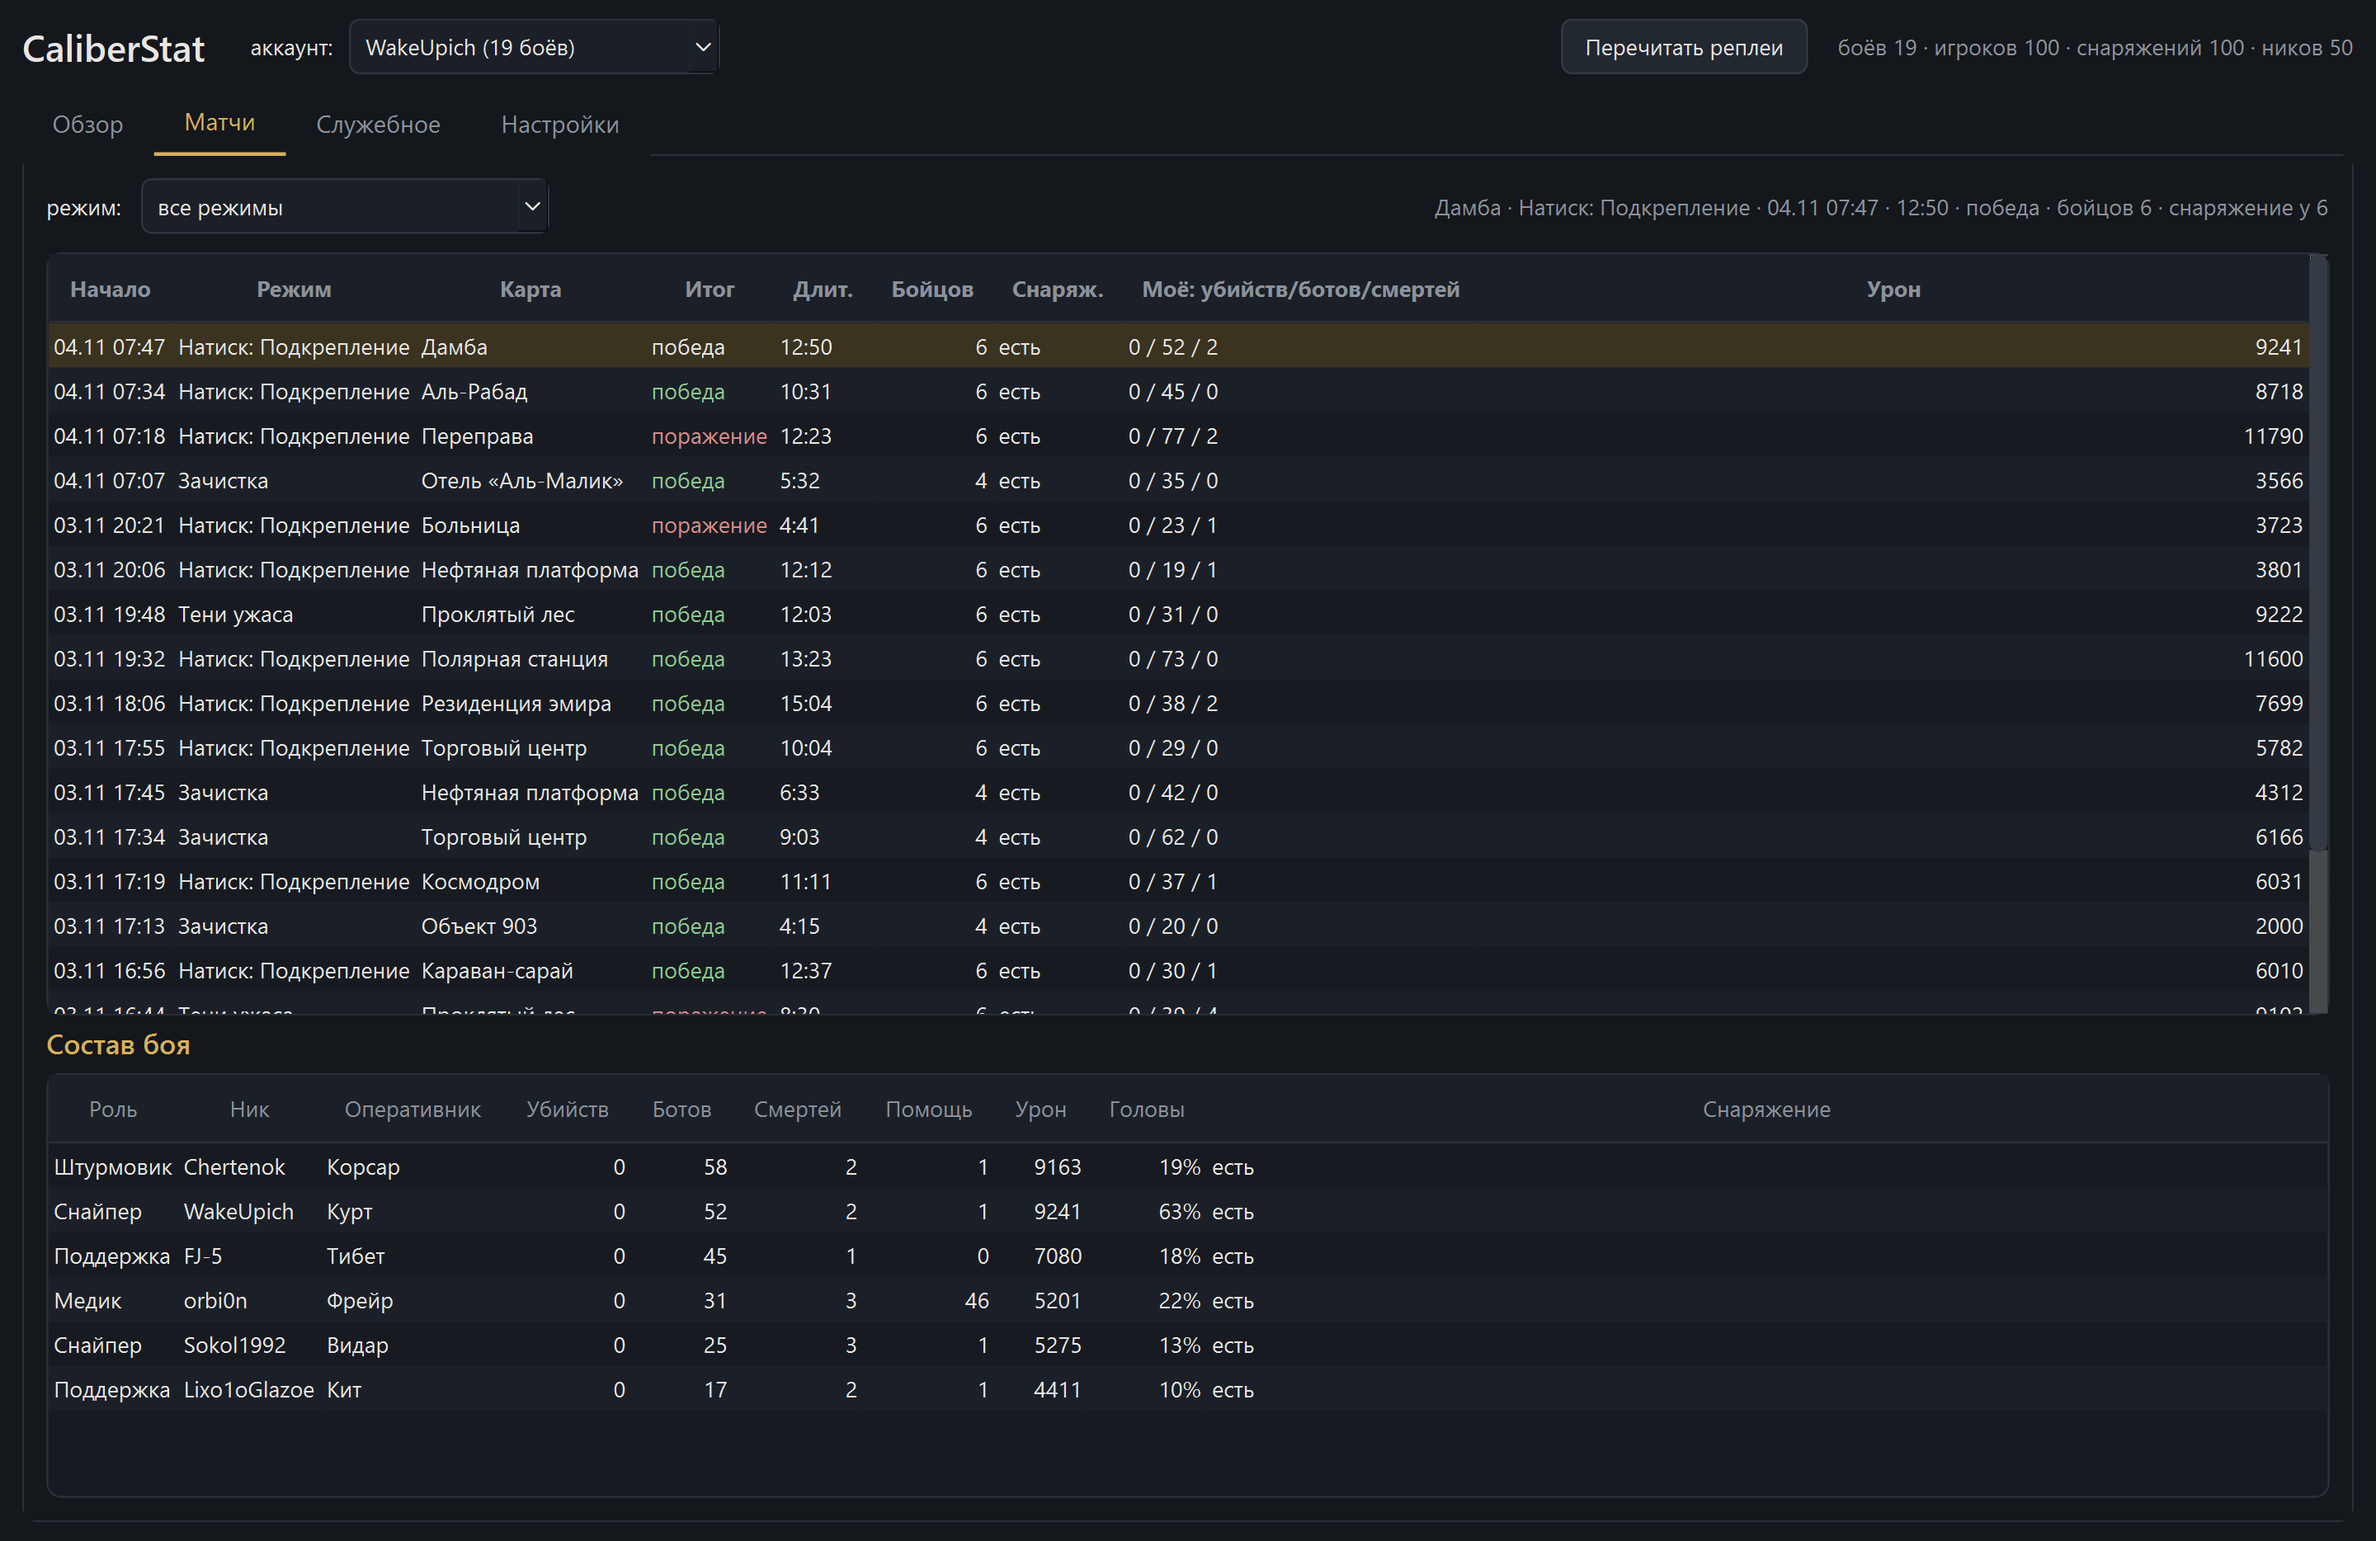
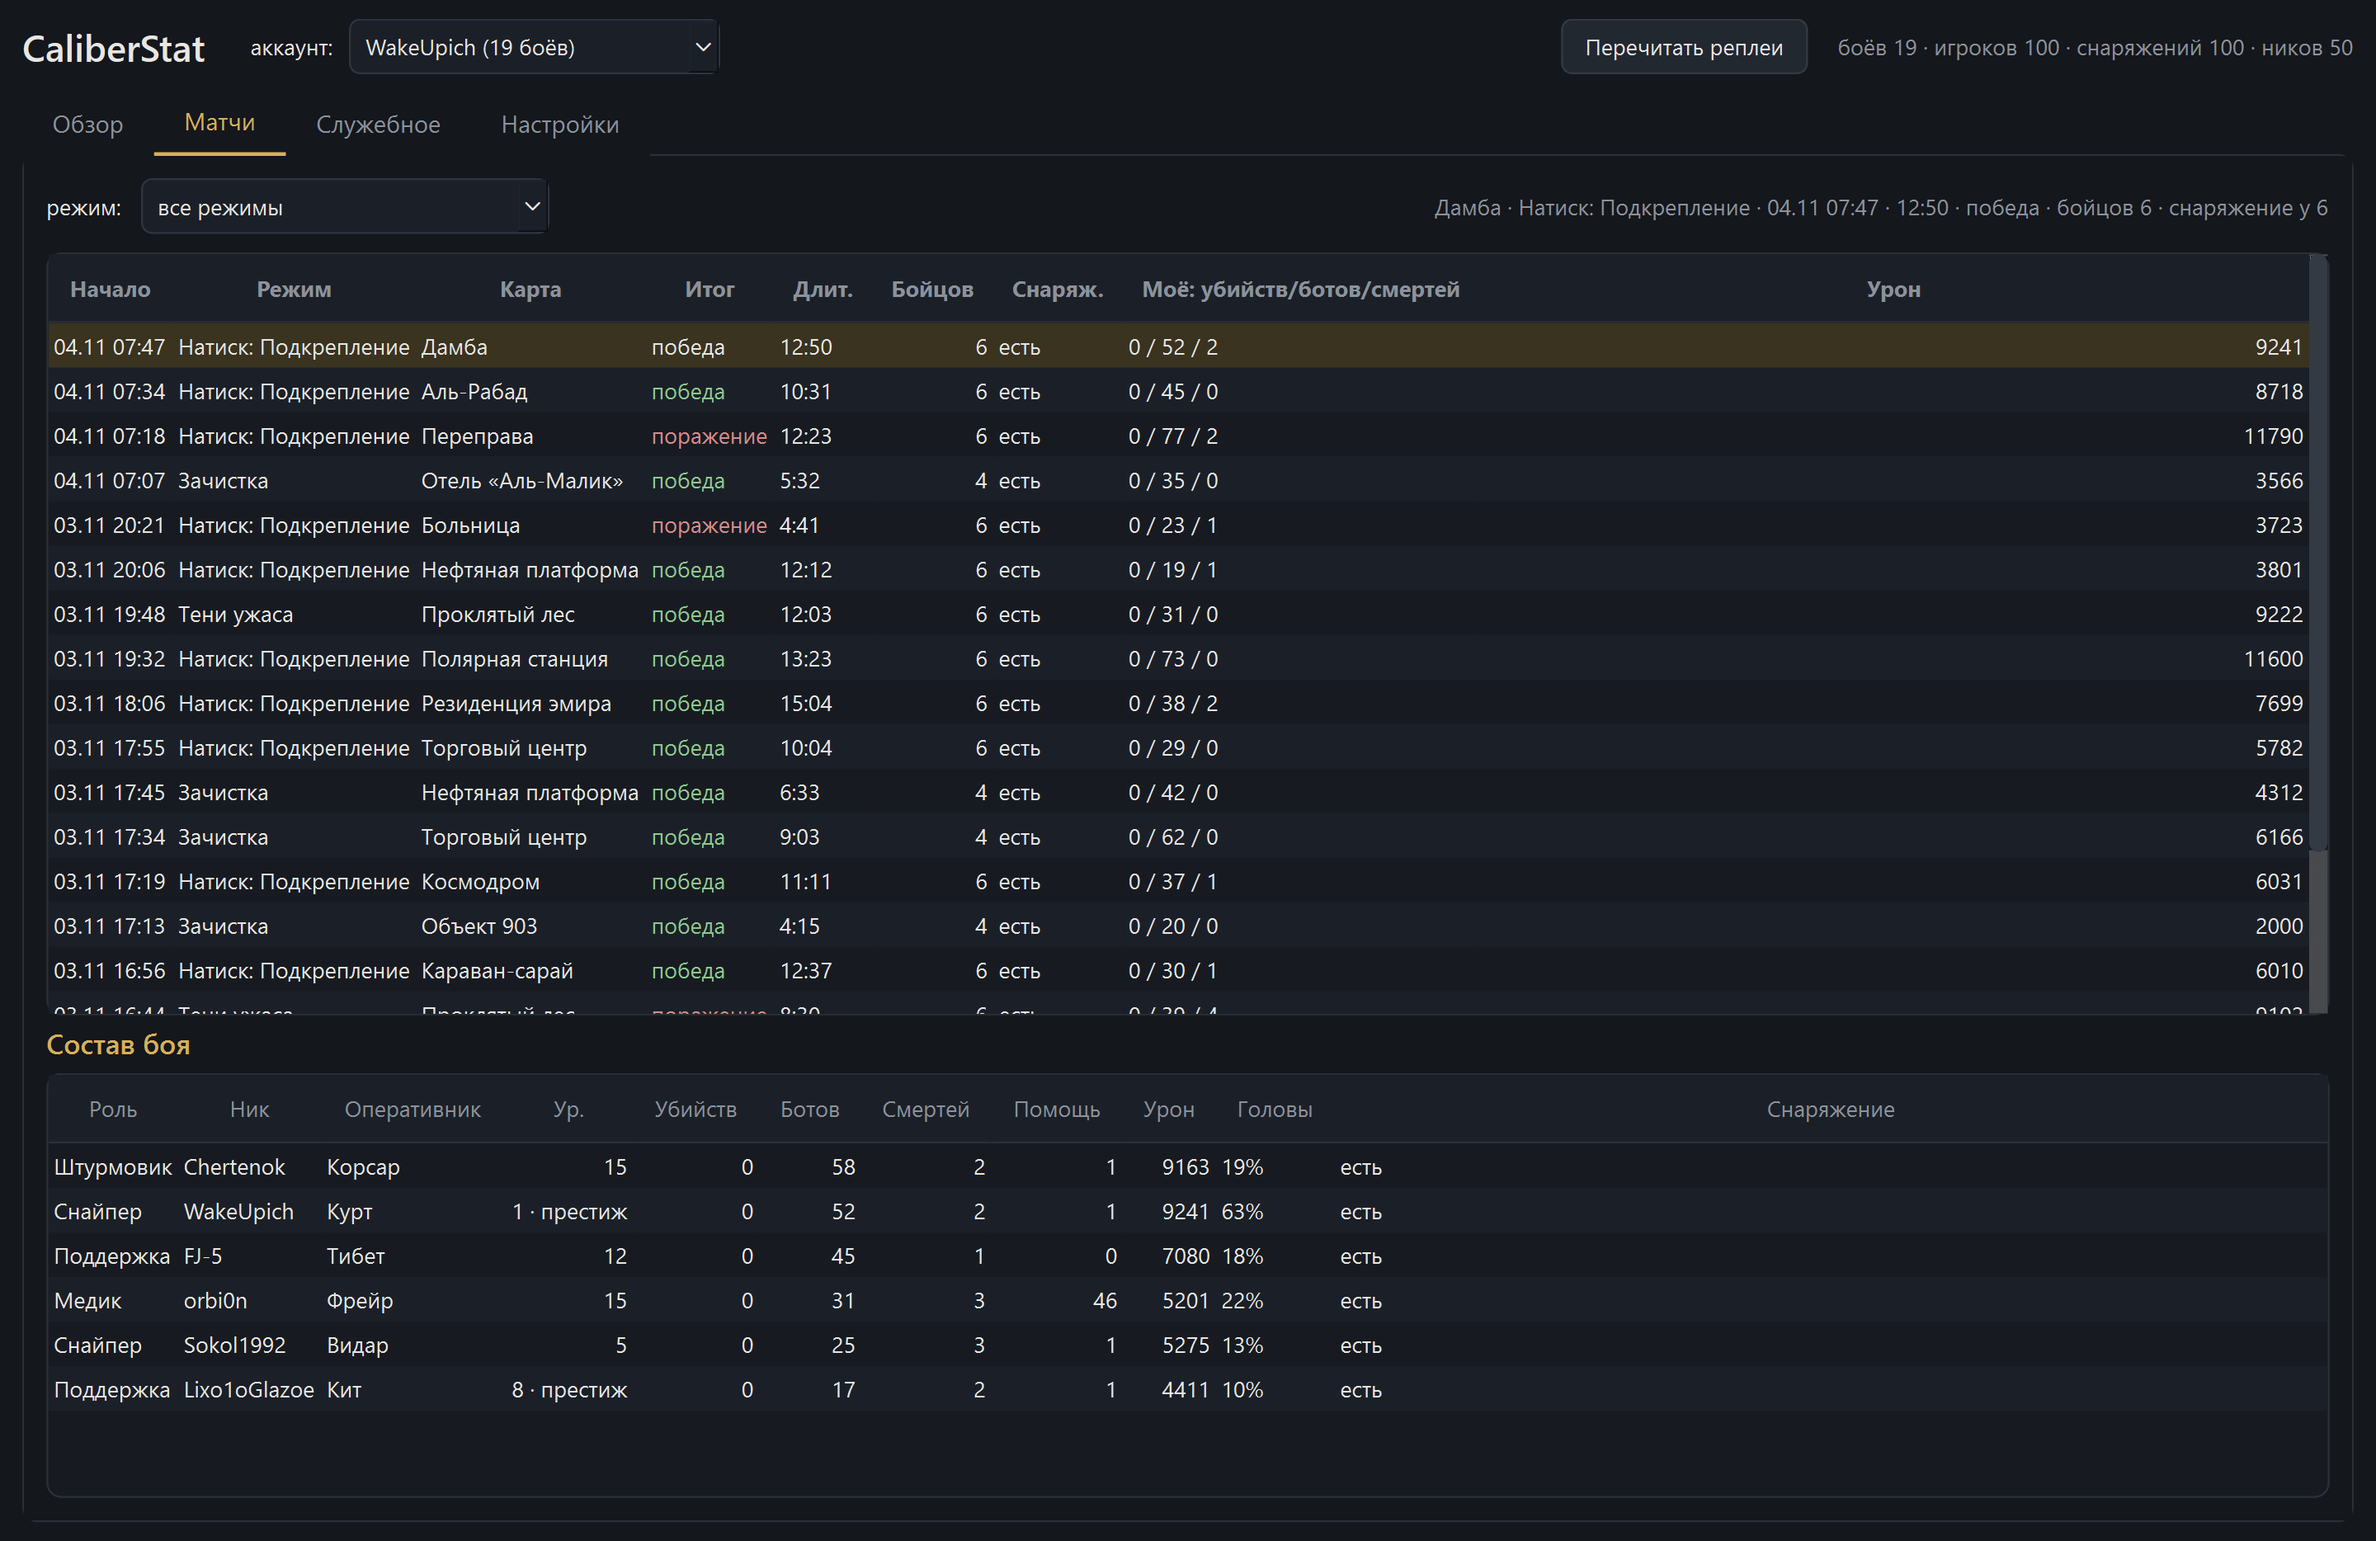
Прокачка оперативника: уровень карточки (8.18) и престиж (8.19) — сверено со скриншотом 6 из 6

diff --git a/gui.py b/gui.py
@@ -210,6 +210,27 @@ def role_title(role) -> str:
     return db.role_ru(role) or "—"
 
 
+def level_text(player: dict) -> str:
+    """«(уровень 15, престиж 8)» — как нашивка в игре: престиж важнее уровня."""
+    level = player.get("card_level")
+    prestige = player.get("prestige")
+    parts = []
+    if level is not None:
+        parts.append(f"уровень {level}")
+    if prestige:
+        parts.append(f"престиж {prestige}")
+    return f" ({', '.join(parts)})" if parts else ""
+
+
+def level_badge(player: dict) -> str:
+    """Короткая нашивка для таблицы: «15», «8 · престиж» или «—»."""
+    level = player.get("card_level")
+    prestige = player.get("prestige")
+    if prestige:
+        return f"{prestige} · престиж"
+    return str(level) if level is not None else "—"
+
+
 def result_text(match) -> str:
     win = q.result_of(match)
     if win is None:
@@ -236,7 +257,8 @@ class PlayerCardDialog(QDialog):
         head.setObjectName("h1")
         outer.addWidget(head)
         sub = QLabel(f"{role_title(player.get('role'))} · "
-                     f"оперативник: {refs().operator(player.get('operator_code'))} · "
+                     f"оперативник: {refs().operator(player.get('operator_code'))}"
+                     f"{level_text(player)} · "
                      f"{map_title(match)} · {q.fmt_dt(q.start_ts(match))}")
         sub.setObjectName("dim")
         outer.addWidget(sub)
@@ -523,7 +545,7 @@ class Hub(QMainWindow):
         bottom_layout.setSpacing(6)
         bottom_layout.addWidget(section_title("Состав боя"))
         self.roster_table = make_table(
-            ["Роль", "Ник", "Оперативник", "Убийств", "Ботов", "Смертей",
+            ["Роль", "Ник", "Оперативник", "Ур.", "Убийств", "Ботов", "Смертей",
              "Помощь", "Урон", "Головы", "Снаряжение"])
         self.roster_table.doubleClicked.connect(self._open_player_card)
         bottom_layout.addWidget(self.roster_table)
@@ -762,6 +784,7 @@ class Hub(QMainWindow):
             rows.append([
                 role_title(player["role"]), player["nick"] or "—",
                 refs().operator(player.get("operator_code")),
+                level_badge(player),
                 player["kills"] or 0, player["bot_kills"] or 0, player["deaths"] or 0,
                 player["assists"] or 0, int(player["damage_dealt"] or 0), head,
                 "есть" if player["has_loadout"] else "—",

diff --git a/replay.py b/replay.py
@@ -328,6 +328,13 @@ def loadout_of(data: dict) -> dict[int, dict]:
         out[int(uid) if uid is not None else 0] = {
             "nick": meta.get("2"),
             "operator": (card or {}).get("1"),
+            # уровень карточки оперативника и престиж — разные поля.
+            # В итогах боя игра рисует нашивку: жёлтую с престижем, если он есть,
+            # иначе чёрную с уровнем. Сверено по скриншоту боя 04.11 (Дамба),
+            # 6 бойцов из 6: 8.18 = уровень (15/15/12/15/15/5),
+            # 8.19 = престиж (0/8/0/0/1/0).
+            "card_level": (card or {}).get("18"),
+            "prestige": (card or {}).get("19"),
             "weapons": weapons,
             "perks": list((card or {}).get("15") or []),
             # уровни навыков лежат не в карточке, а рядом с игроком (поле 20):

diff --git a/queries.py b/queries.py
@@ -203,12 +203,18 @@ def match_players(con: sqlite3.Connection, match_id: str) -> list[dict]:
         data = dict(row)
         raw = data.pop("loadout_json", None)
         code = None
+        level = prestige = None
         if raw:
             try:
-                code = (json.loads(raw) or {}).get("operator")
+                loadout = json.loads(raw) or {}
+                code = loadout.get("operator")
+                level = loadout.get("card_level")
+                prestige = loadout.get("prestige")
             except Exception:
                 code = None
         data["operator_code"] = code
+        data["card_level"] = level
+        data["prestige"] = prestige
         data["has_loadout"] = 1 if raw else 0
         out.append(data)
     return out

diff --git a/docs/PLAN.md b/docs/PLAN.md
@@ -157,9 +157,14 @@ CaliberStat\
 - **Снаряжение**: в карточке игрока поле `24` — `0` (все предметы с модулями и
   скинами) и `1` (какие стволы стоят в слотах); на 100 игроках заполнено полностью.
 - **Награды**: поле `20` у игрока — уровни навыков (0/1/2), поле `15` в карточке —
-  четыре навыка, взятых в бой. Это и есть «прокачка» в объёме, доступном из реплея.
-- **Неизвестное поле `0` карточки** (значения 5–83) — не уровень, отложено до этапа,
-  когда станет видно, чего не хватает в интерфейсе.
+  четыре навыка, взятых в бой.
+- **Прокачка оперативника найдена**: в карточке `8.18` — уровень карточки,
+  `8.19` — престиж. В итогах боя игра рисует нашивку: жёлтую с престижем, если он
+  есть, иначе чёрную с уровнем. Сверено по скриншоту боя 04.11 (Дамба), 6 из 6:
+  уровень 15/15/12/15/15/5, престиж 0/8/0/0/1/0 — совпало и по значениям, и по цвету.
+  В интерфейсе показываем «15» либо «8 · престиж».
+- **Поле `0` карточки** (значения 5–83) — не уровень; что это, по-прежнему неизвестно,
+  в интерфейс не выводим.
 - **Время**: игра показывает **начало** боя (07:46), а в базе лежит время результата
   (07:59). В интерфейсе показываем начало = результат минус длительность.
 
